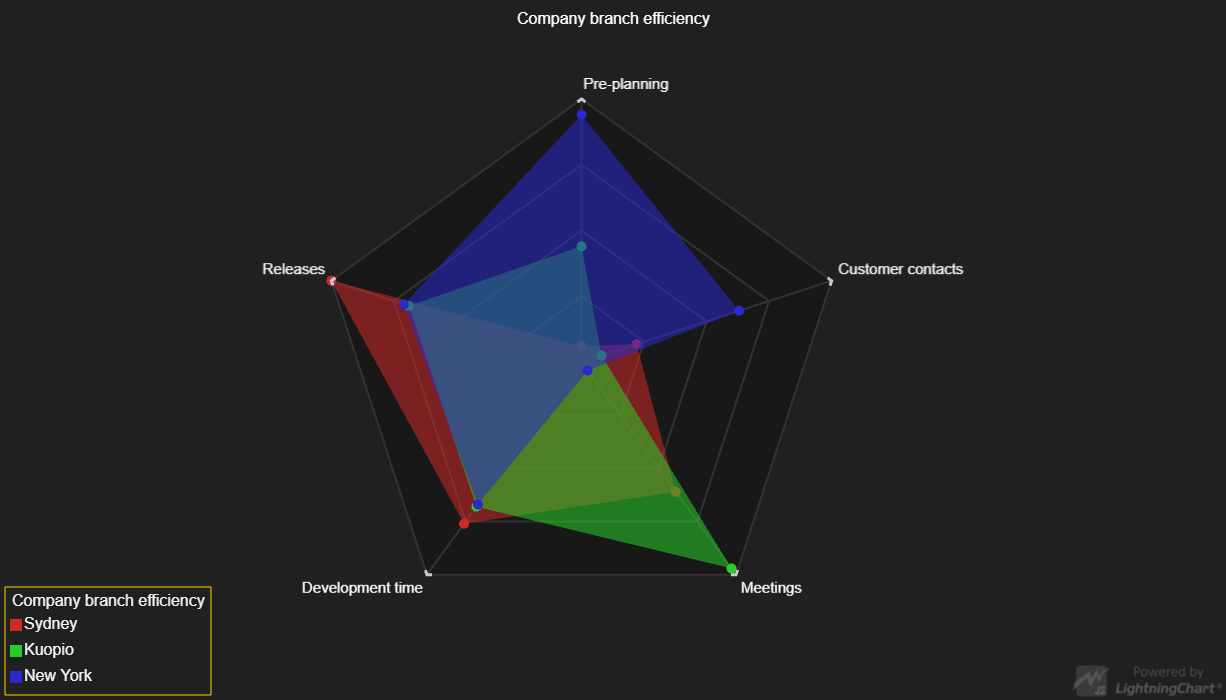
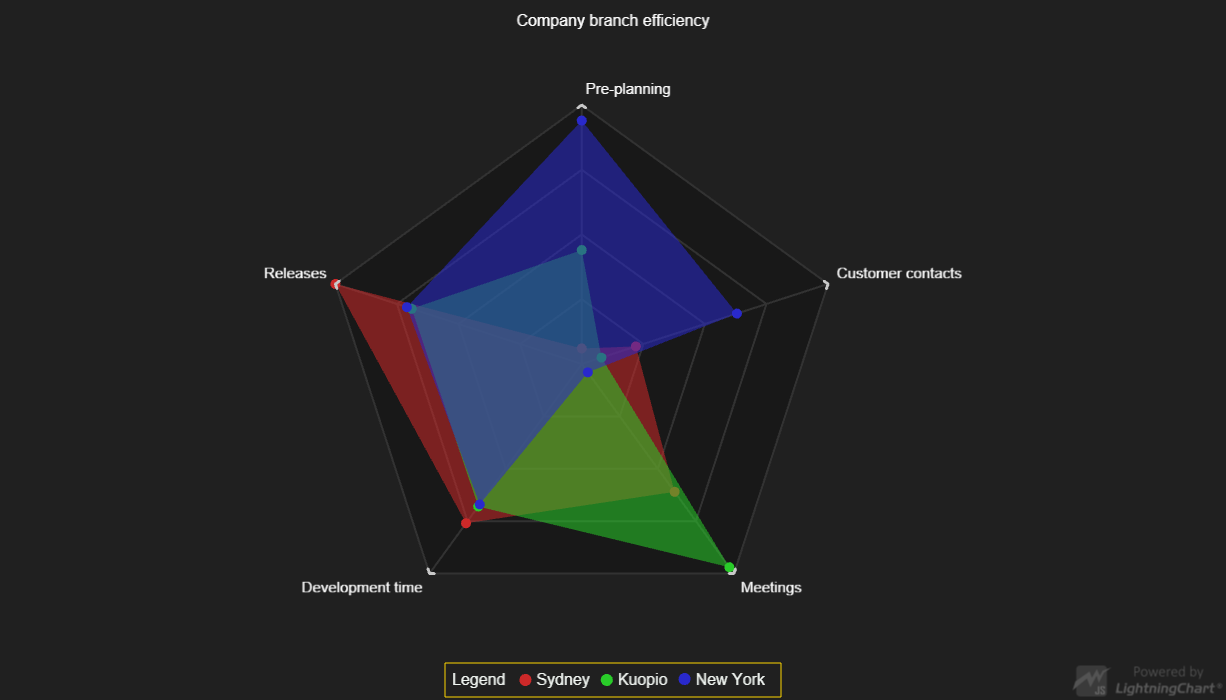
LCJS 3.0.0

diff --git a/src/index.js b/src/index.js
@@ -42,7 +42,7 @@ series.forEach((value, i) => {
         .setPointFillStyle(solid)
         .setPointSize(10)
         .setFillStyle(opaque)
-        .setResultTableFormatter((builder, series, value, axis) =>
+        .setCursorResultTableFormatter((builder, series, value, axis) =>
             builder.addRow(`${series.getName()} ${axis}`)
         )
 })
@@ -76,9 +76,6 @@ series[2].addPoints(
 
 // Create LegendBox as part of SpiderChart.
 const legend = chart.addLegendBox(LegendBoxBuilders.HorizontalLegendBox)
-    .setPosition({ x: 0, y: 0 })
-    .setOrigin(UIOrigins.LeftBottom)
-    .setMargin({ top: 5, right: 5, bottom: 5, left: 5 })
 // Add SpiderChart to LegendBox
 legend.add(chart)
 

diff --git a/README.md b/README.md
@@ -88,11 +88,11 @@ Direct developer email support can be purchased through a [Support Plan][4] or b
 © Arction Ltd 2009-2020. All rights reserved.
 
 
-[Color palettes]: https://www.arction.com/lightningchart-js-api-documentation/v2.2.0/globals.html#colorpalettes
-[Solid FillStyle]: https://www.arction.com/lightningchart-js-api-documentation/v2.2.0/classes/solidfill.html
-[Empty LineStyle]: https://www.arction.com/lightningchart-js-api-documentation/v2.2.0/globals.html#emptyline
-[Spider chart]: https://www.arction.com/lightningchart-js-api-documentation/v2.2.0/classes/spiderchart.html
-[Spider series]: https://www.arction.com/lightningchart-js-api-documentation/v2.2.0/classes/spiderseries.html
-[LegendBox]: https://www.arction.com/lightningchart-js-api-documentation/v2.2.0/classes/chartxy.html#addlegendbox
-[UI origin positions]: https://www.arction.com/lightningchart-js-api-documentation/v2.2.0/globals.html#uiorigins
+[Color palettes]: https://www.arction.com/lightningchart-js-api-documentation/v3.0.0/globals.html#colorpalettes
+[Solid FillStyle]: https://www.arction.com/lightningchart-js-api-documentation/v3.0.0/classes/solidfill.html
+[Empty LineStyle]: https://www.arction.com/lightningchart-js-api-documentation/v3.0.0/globals.html#emptyline
+[Spider chart]: https://www.arction.com/lightningchart-js-api-documentation/v3.0.0/classes/spiderchart.html
+[Spider series]: https://www.arction.com/lightningchart-js-api-documentation/v3.0.0/classes/spiderseries.html
+[LegendBox]: https://www.arction.com/lightningchart-js-api-documentation/v3.0.0/classes/chartxy.html#addlegendbox
+[UI origin positions]: https://www.arction.com/lightningchart-js-api-documentation/v3.0.0/globals.html#uiorigins
 
